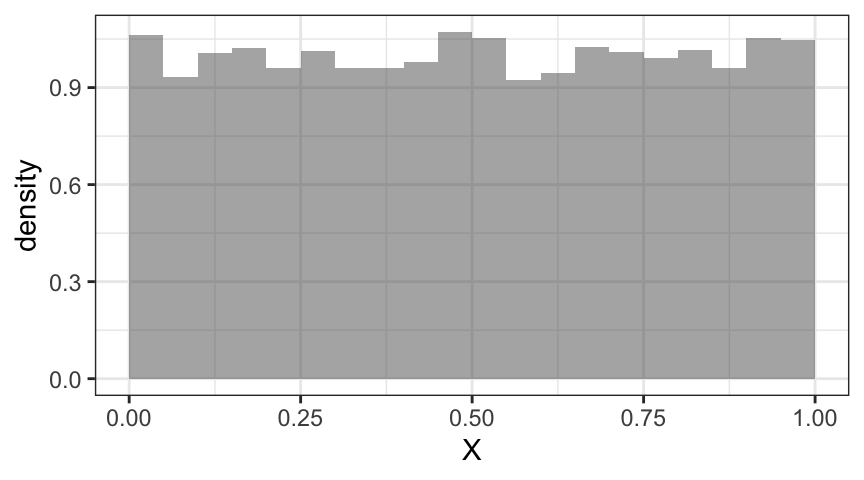
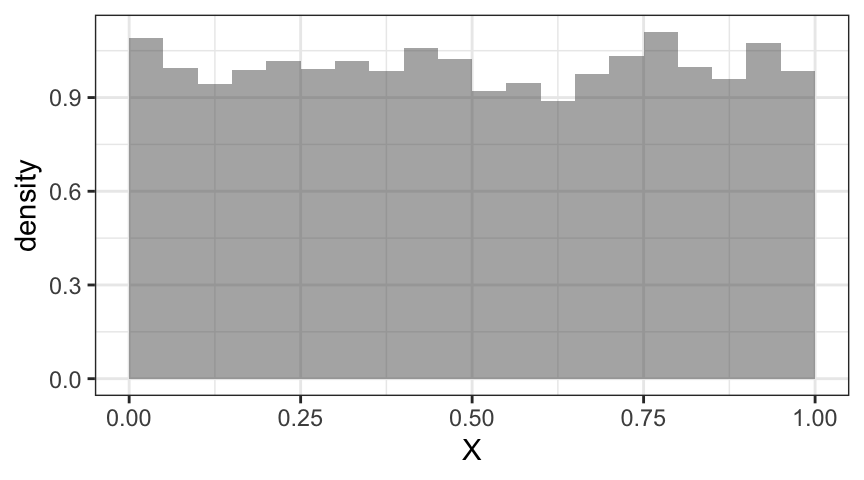
fix subscript issue

diff --git a/book/_site/05-transformations.html b/book/_site/05-transformations.html
@@ -686,13 +686,13 @@ X - Y \sim \Norm(10 - 12, \sqrt{2^2 + 4^2})
 <div class="quarto-layout-row quarto-layout-valign-top">
 <div class="cell-output cell-output-stdout quarto-layout-cell" style="flex-basis: 50.0%;justify-content: center;">
 <pre><code>      mean           sd     
-  22.03553202    4.47711499 
- ( 0.06331597) ( 0.04477115)</code></pre>
+  22.11304146    4.52667098 
+ ( 0.06401679) ( 0.04526671)</code></pre>
 </div>
 <div class="cell-output cell-output-stdout quarto-layout-cell" style="flex-basis: 50.0%;justify-content: center;">
 <pre><code>      mean           sd     
-  -1.99847417    4.48530938 
- ( 0.06343185) ( 0.04485309)</code></pre>
+  -2.04289940    4.49405723 
+ ( 0.06355557) ( 0.04494057)</code></pre>
 </div>
 </div>
 <div class="quarto-layout-row quarto-layout-valign-top">
@@ -716,7 +716,7 @@ X - Y \sim \Norm(10 - 12, \sqrt{2^2 + 4^2})
 </div>
 <!-- end example -->
 <div id="exm-sum-of-twelve-unifs" class="example theorem example">
-<p><span class="theorem-title"><strong>Example 5.9 </strong></span>Let <span class="math inline">\(X_1, X_2, \dots X_12\)</span> be twelve independent <span class="math inline">\(\Unif(0,1)\)</span>-random variables. Consider <span class="math inline">\(S = \sum_{i = 1}^{12} X_i\)</span>.<br>
+<p><span class="theorem-title"><strong>Example 5.9 </strong></span>Let <span class="math inline">\(X_{1}, X_{2}, \dots X_{12}\)</span> be twelve independent <span class="math inline">\(\Unif(0,1)\)</span>-random variables. Consider <span class="math inline">\(S = \sum_{i = 1}^{12} X_i\)</span>.<br>
 Since <span class="math inline">\(\E(X_i) = \frac12\)</span> and <span class="math inline">\(\Var(X_i) = \frac{1^2}{12} = \frac1{12}\)</span></p>
 <p><span class="math display">\[
 \begin{aligned}
@@ -738,9 +738,9 @@ Since <span class="math inline">\(\E(X_i) = \frac12\)</span> and <span class="ma
 <div class="cell quarto-layout-panel">
 <div class="quarto-layout-row quarto-layout-valign-top">
 <div class="cell-output cell-output-stdout quarto-layout-cell" style="flex-basis: 50.0%;justify-content: center;">
-<pre><code>      mean           sd     
-  5.988455838   0.993371474 
- (0.014048394) (0.009933715)</code></pre>
+<pre><code>      mean          sd    
+  5.98856051   0.99977899 
+ (0.01413901) (0.00999779)</code></pre>
 </div>
 <div class="cell-output-display quarto-layout-cell" style="flex-basis: 50.0%;justify-content: center;">
 <p><img src="05-transformations_files/figure-html/unnamed-chunk-6-1.png" class="img-fluid" width="432"></p>
@@ -1165,8 +1165,8 @@ Is the normal distribution a good fit?</li>
 <div class="sourceCode cell-code" id="cb39"><pre class="sourceCode r code-with-copy"><code class="sourceCode r"><span id="cb39-1"><a href="#cb39-1" aria-hidden="true" tabindex="-1"></a><span class="fu">fitdistr</span>(S, <span class="st">"normal"</span>)</span></code><button title="Copy to Clipboard" class="code-copy-button"><i class="bi"></i></button></pre></div>
 <div class="cell-output cell-output-stdout">
 <pre><code>      mean           sd     
-  11.94894038    5.87822030 
- ( 0.08313059) ( 0.05878220)</code></pre>
+  12.08471395    6.01937009 
+ ( 0.08512675) ( 0.06019370)</code></pre>
 </div>
 <div class="sourceCode cell-code" id="cb41"><pre class="sourceCode r code-with-copy"><code class="sourceCode r"><span id="cb41-1"><a href="#cb41-1" aria-hidden="true" tabindex="-1"></a><span class="fu">gf_qq</span>( <span class="sc">~</span> S)</span></code><button title="Copy to Clipboard" class="code-copy-button"><i class="bi"></i></button></pre></div>
 <div class="cell-output-display">
@@ -1181,8 +1181,8 @@ Is the normal distribution a good fit?</li>
 <div class="sourceCode cell-code" id="cb43"><pre class="sourceCode r code-with-copy"><code class="sourceCode r"><span id="cb43-1"><a href="#cb43-1" aria-hidden="true" tabindex="-1"></a><span class="fu">fitdistr</span>(S, <span class="st">"gamma"</span>)</span></code><button title="Copy to Clipboard" class="code-copy-button"><i class="bi"></i></button></pre></div>
 <div class="cell-output cell-output-stdout">
 <pre><code>      shape         rate    
-  4.170131144   0.348995941 
- (0.080287640) (0.007140639)</code></pre>
+  3.988194295   0.330019780 
+ (0.076659646) (0.006760274)</code></pre>
 </div>
 <div class="sourceCode cell-code" id="cb45"><pre class="sourceCode r code-with-copy"><code class="sourceCode r"><span id="cb45-1"><a href="#cb45-1" aria-hidden="true" tabindex="-1"></a><span class="fu">gf_qq</span>( <span class="sc">~</span> S, <span class="at">distribution =</span> qgamma, <span class="at">dparams =</span> <span class="fu">list</span>(<span class="at">shape =</span> <span class="fl">4.04</span>, <span class="at">rate =</span> <span class="fl">0.333</span>))</span></code><button title="Copy to Clipboard" class="code-copy-button"><i class="bi"></i></button></pre></div>
 <div class="cell-output-display">
@@ -1198,8 +1198,8 @@ Is the normal distribution a good fit?</li>
 <div class="sourceCode cell-code" id="cb47"><pre class="sourceCode r code-with-copy"><code class="sourceCode r"><span id="cb47-1"><a href="#cb47-1" aria-hidden="true" tabindex="-1"></a><span class="fu">fitdistr</span>(D, <span class="st">"normal"</span>)</span></code><button title="Copy to Clipboard" class="code-copy-button"><i class="bi"></i></button></pre></div>
 <div class="cell-output cell-output-stdout">
 <pre><code>      mean          sd    
-  0.03074848   5.93491349 
- (0.08393235) (0.05934913)</code></pre>
+  0.12504399   6.02395502 
+ (0.08519159) (0.06023955)</code></pre>
 </div>
 <div class="sourceCode cell-code" id="cb49"><pre class="sourceCode r code-with-copy"><code class="sourceCode r"><span id="cb49-1"><a href="#cb49-1" aria-hidden="true" tabindex="-1"></a><span class="fu">gf_qq</span>( <span class="sc">~</span> D)</span></code><button title="Copy to Clipboard" class="code-copy-button"><i class="bi"></i></button></pre></div>
 <div class="cell-output-display">
